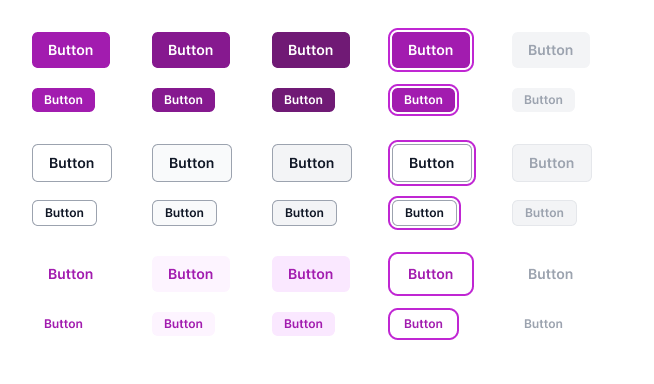
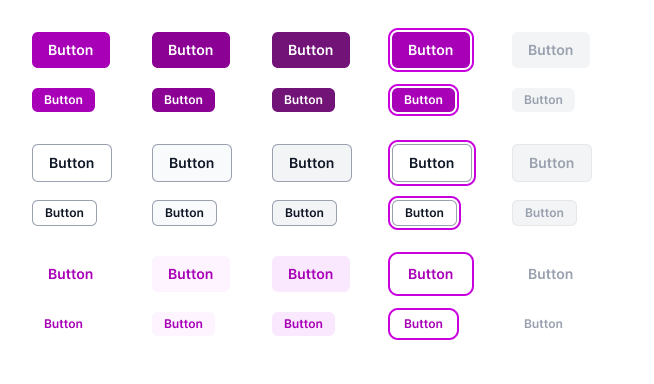
Sync the Figma snapshot after moving Figma to Tailwind v4's colours
The Figma colour variables held Tailwind v3's hex values, so 23 of 46
drifted from the v4 palette the code renders. They now hold v4's
values (OKLCH converted to sRGB) in Figma. This refreshes the token
snapshot and the Button export to match; the token check and all 30
pixel comparisons pass.

diff --git a/docs/tooling-decisions.md b/docs/tooling-decisions.md
@@ -103,7 +103,7 @@ These don't run in CI yet (it needs a Chromium install step and a check that Lin
 
 **Token check: Vitest.** `figma/tokens.json` is a snapshot of the Figma variables, text styles and effect styles, and `packages/ui/src/theme.test.ts` checks each one resolves to a token in the Tailwind theme with the same value. The Variables REST API is Enterprise-only, so the snapshot is refreshed through the Figma MCP (`figma/export-tokens.js`).
 
-It fails today for 23 of the 46 colours, and that is a real difference, not a rounding one: Figma holds Tailwind v3's hex values, and Tailwind v4's palette is more vivid. `fuchsia/700` is `#a21caf` in Figma and renders as `#a800b7`. Either the Figma variables take v4's values or `theme.css` pins the palette to Figma's; until one of those happens the check stays red.
+Its first run failed for 23 of the 46 colours, and that was a real difference, not a rounding one: Figma held Tailwind v3's hex values, and Tailwind v4's palette is more vivid (`fuchsia/700` was `#a21caf` in Figma and rendered as `#a800b7`). The Figma variables now hold v4's values, converted from OKLCH to sRGB.
 
 **Behaviour tests: Vitest + Testing Library** (`pnpm test`). 10 tests cover the defaults, each variant's Figma classes, the focus ring, `className` overrides, keyboard activation and disabled behaviour. They run in jsdom, so they test behaviour, not pixels.
 
